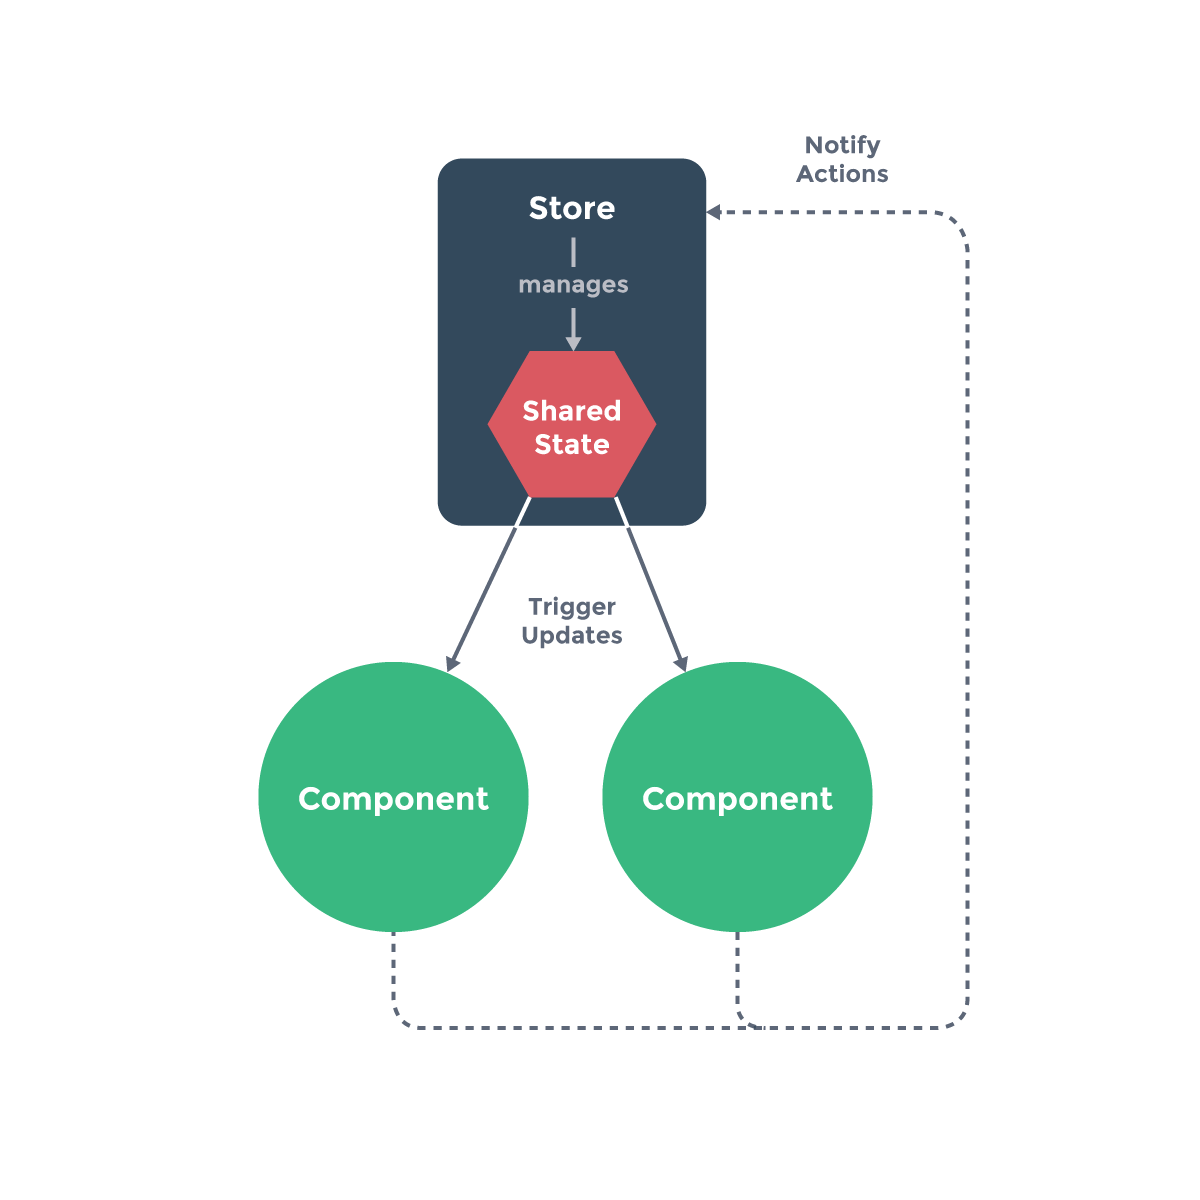
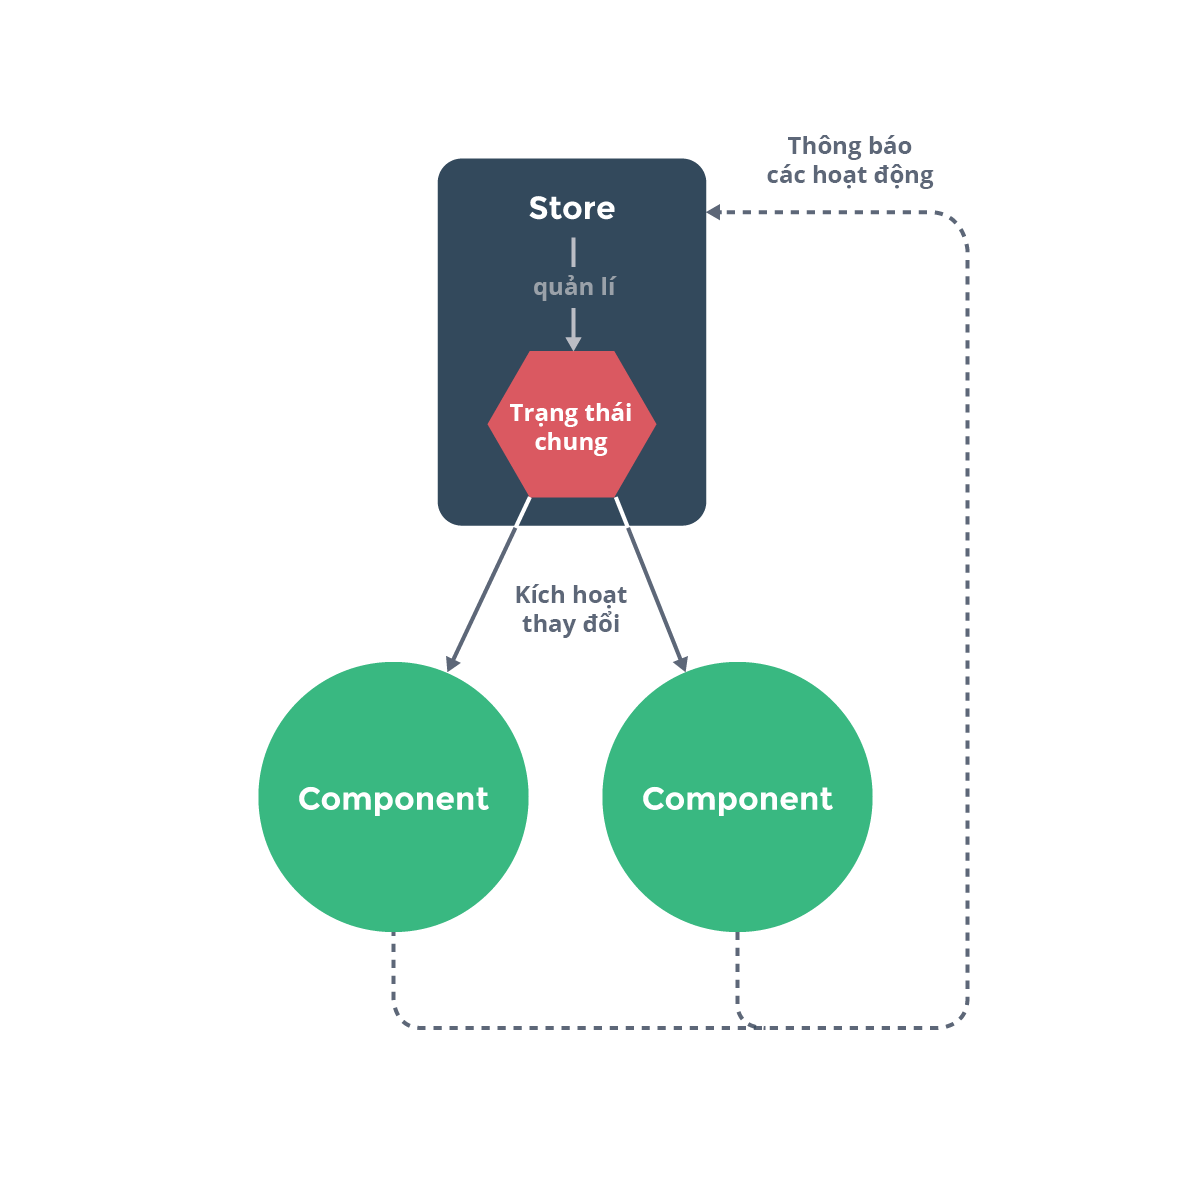
src/v2/guide/state-management.md (#70)
* Finish translation

* change time travel url

diff --git a/src/v2/guide/state-management.md b/src/v2/guide/state-management.md
@@ -1,20 +1,20 @@
 ---
-title: State Management
+title: Quản lí trạng thái
 type: guide
 order: 502
 ---
 
-## Official Flux-Like Implementation
+## Giải pháp chính thức theo kiến trúc Flux
 
-Large applications can often grow in complexity, due to multiple pieces of state scattered across many components and the interactions between them. To solve this problem, Vue offers [vuex](https://github.com/vuejs/vuex): our own Elm-inspired state management library. It even integrates into [vue-devtools](https://github.com/vuejs/vue-devtools), providing zero-setup access to time travel.
+Các ứng dụng lớn có xu hướng ngày càng trở nên phức tạp do có nhiều thành phần trạng thái (state) khác nhau và các giao tiếp giữa các thành phần ấy. Để giải quyết vấn đề này, Vue cung cấp [vuex](https://github.com/vuejs/vuex): thư viện quản lí trạng thái chính thức, lấy cảm hứng từ [Elm](http://elm-lang.org/). Vuex thậm chí còn được tích hợp vào [vue-devtools](https://github.com/vuejs/vue-devtools), cung cấp tính năng [time-travel debugging](src/v2/guide/state-management.md) mà không cần phải cài đặt gì thêm.
 
-### Information for React Developers
+### Thông tin dành cho các lập trình viên React
 
-If you're coming from React, you may be wondering how vuex compares to [redux](https://github.com/reactjs/redux), the most popular Flux implementation in that ecosystem. Redux is actually view-layer agnostic, so it can easily be used with Vue via [simple bindings](https://yarnpkg.com/en/packages?q=redux%20vue&p=1). Vuex is different in that it _knows_ it's in a Vue app. This allows it to better integrate with Vue, offering a more intuitive API and improved development experience.
+Nếu đến từ React, có thể bạn đang thắc mắc không biết vuex và [redux](https://github.com/reactjs/redux), giải pháp quản lí trạng thái theo kiến trúc Flux phổ biến nhất trong hệ sinh thái của React, giống và khác nhau như thế nào. Thật ra, Redux độc lập với view layer, và vì thế có thể dùng với Vue thông qua [các ràng buộc đơn giản](https://yarnpkg.com/en/packages?q=redux%20vue&p=1). Trong khi đó, vuex _biết rằng_ nó đang được sử dụng trong một ứng dụng Vue. Điều này giúp vuex tích hợp tốt hơn với Vue, cung cấp API trực quan hơn và nâng cao trải nghiệp của lập trình viên.
 
-## Simple State Management from Scratch
+## Xây dựng bộ quản lí trạng thái đơn giản
 
-It is often overlooked that the source of truth in Vue applications is the raw `data` object - a Vue instance only proxies access to it. Therefore, if you have a piece of state that should be shared by multiple instances, you can share it by identity:
+Chúng ta thường quên rằng "source of truth" (nguồn chân lí, một khái niệm chỉ việc dữ liệu được truy xuất từ một nguồn duy nhất) trong một ứng dựng Vue là object `data` – một đối tượng Vue đơn giản chỉ proxy các truy xuất đến object này. Vì thế, nếu muốn có một trạng thái được chia sẻ giữa các đối tượng Vue khác nhau, bạn có thể làm như sau:  
 
 ``` js
 const sourceOfTruth = {}
@@ -28,30 +28,30 @@ const vmB = new Vue({
 })
 ```
 
-Now whenever `sourceOfTruth` is mutated, both `vmA` and `vmB` will update their views automatically. Subcomponents within each of these instances would also have access via `this.$root.$data`. We have a single source of truth now, but debugging would be a nightmare. Any piece of data could be changed by any part of our app at any time, without leaving a trace.
+Trong ví dụ này, mỗi khi `sourceOfTruth` được thay đổi, cả `vmA` và `vmB` đều sẽ cập nhật view một cách tự động. Các component bên trong hai đối tượng này cũng sẽ truy xuất được đến `sourceOfTruth` thông qua `this.$root.$data`. Bây giờ chúng ta đã có một "single source of truth," tuy nhiên việc dò lỗi sẽ là ác mộng, vì bất cứ phần nào của ứng dụng cũng có thể chỉnh sửa được bất cứ dữ liệu nào vào bất kì lúc nào mà không để lại chút tung tích nào cả.
 
-To help solve this problem, we can adopt a **store pattern**:
+Để giải quyết vấn đề này, chúng ta sử dụng một **store pattern**:
 
 ``` js
 var store = {
   debug: true,
   state: {
-    message: 'Hello!'
+    message: 'Xin chào!'
   },
   setMessageAction (newValue) {
-    if (this.debug) console.log('setMessageAction triggered with', newValue)
+    if (this.debug) console.log('setMessageAction được gọi với giá trị', newValue)
     this.state.message = newValue
   },
   clearMessageAction () {
-    if (this.debug) console.log('clearMessageAction triggered')
+    if (this.debug) console.log('clearMessageAction được gọi')
     this.state.message = ''
   }
 }
 ```
 
-Notice all actions that mutate the store's state are put inside the store itself. This type of centralized state management makes it easier to understand what type of mutations could happen and how are they triggered. Now when something goes wrong, we'll also have a log of what happened leading up to the bug.
+Lưu ý việc tất cả các hành động (action) làm thay đổi trạng thái của store được chứa trong chính store. Cách quản lí trạng thái theo kiểu tập trung này giúp chúng ta hiểu được dạng thay đổi nào có thể xảy ra và được chúng gọi đến như thế nào. Bây giờ nếu có gì bất ổn, chúng ta cũng sẽ có log.
 
-In addition, each instance/component can still own and manage its own private state:
+Thêm vào đó, mỗi đối tượng / component cũng có thể sở hữu và quản lí trạng thái cho riêng mình: 
 
 ``` js
 var vmA = new Vue({
@@ -71,8 +71,8 @@ var vmB = new Vue({
 
 ![State Management](/images/state.png)
 
-<p class="tip">It's important to note that you should never replace the original state object in your actions - the components and the store need to share reference to the same object in order for mutations to be observed.</p>
+<p class="tip">Đừng bao giờ thay thế object trạng thái ban đầu trong các hành động – các component và store cần chia sẻ chung một tham chiếu đến object này để có thể theo dõi các thay đổi.</p>
 
-As we continue developing the convention where components are never allowed to directly mutate state that belongs to a store, but should instead dispatch events that notify the store to perform actions, we eventually arrive at the [Flux](https://facebook.github.io/flux/) architecture. The benefit of this convention is we can record all state mutations happening to the store and implement advanced debugging helpers such as mutation logs, snapshots, and history re-rolls / time travel.
+Khi tiếp tục phát triển quy ước không cho phép component được trực tiếp thay đổi trạng thái thuộc về store mà thay vào đó chỉ nên gửi sự kiện để thông báo cho store thực hiện các hành động, cuối cùng chúng ta sẽ tiến đến kiến trúc [Flux](https://facebook.github.io/flux/). Lợi ích của quy ước này là chúng ta có thể ghi lại tất cả các thay đổi xảy ra với store và dựa vào đó phát triển các tính năng debug nâng cao như log, snapshot, time travel…
 
-This brings us full circle back to [vuex](https://github.com/vuejs/vuex), so if you've read this far it's probably time to try it out!
+Điều này lại dẫn chúng ta quay lại với [vuex](https://github.com/vuejs/vuex), vì thế nếu bạn đã đọc đến đây thì có lẽ đã đến lúc thử qua thư viện này.
